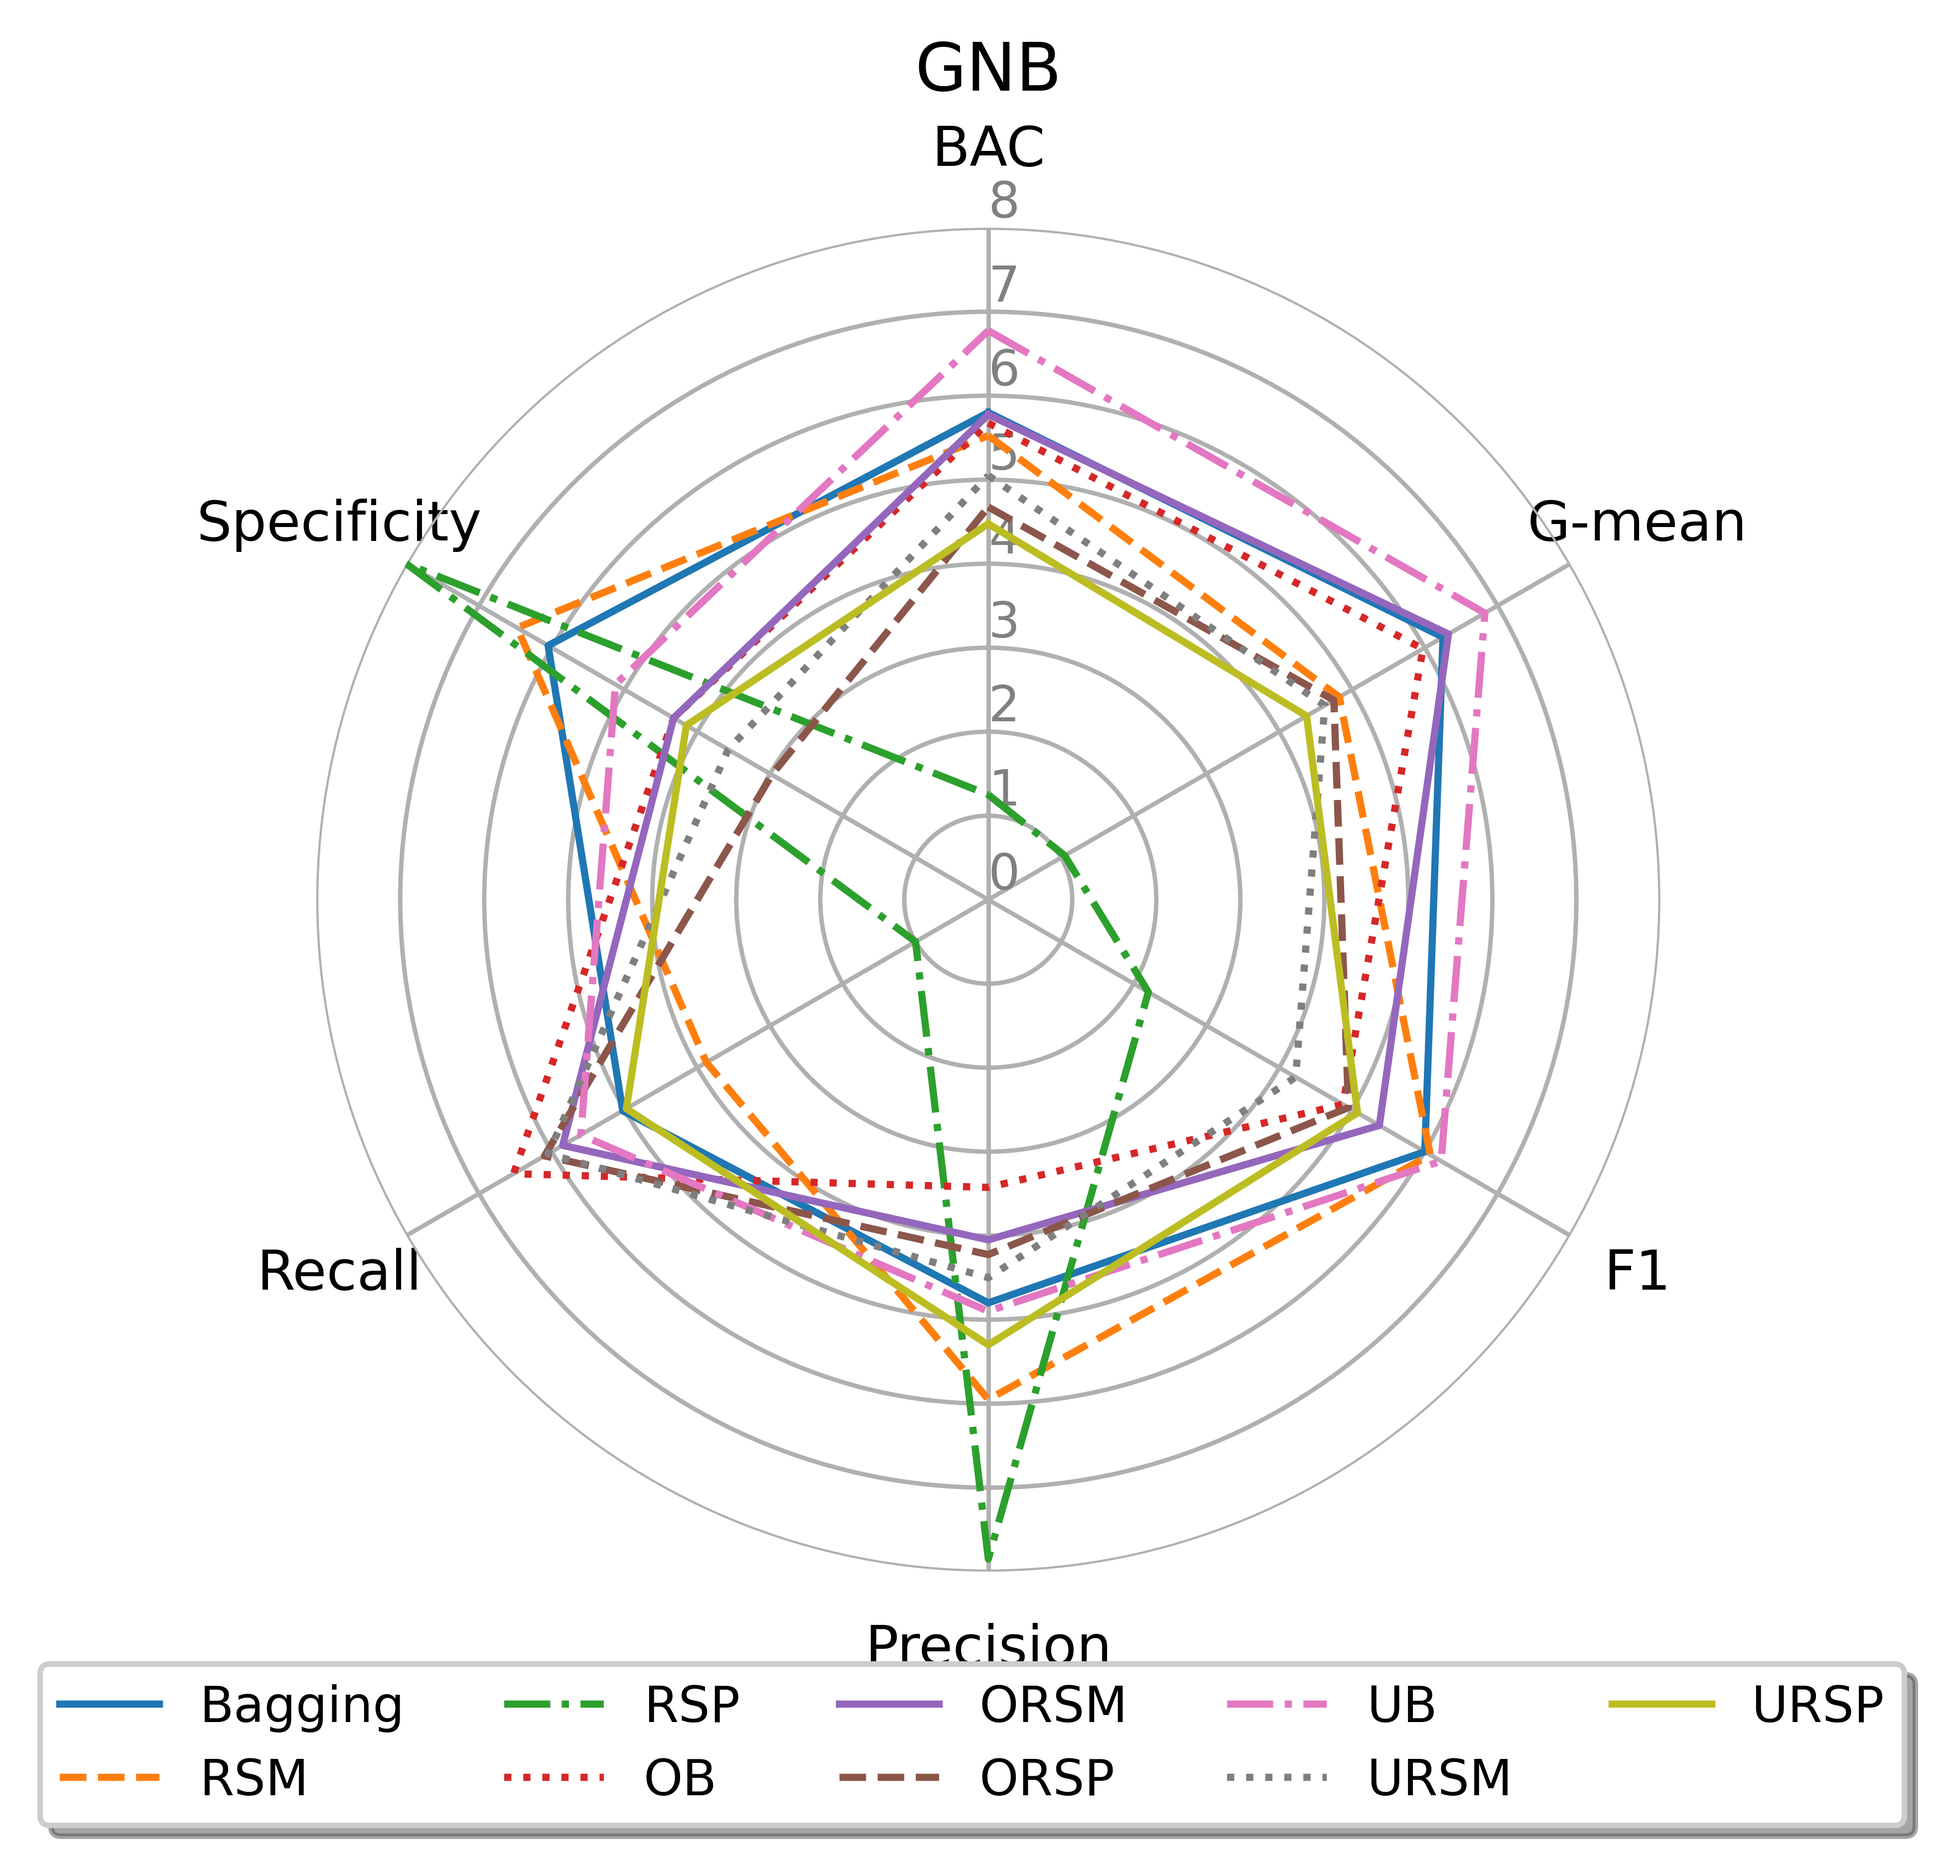
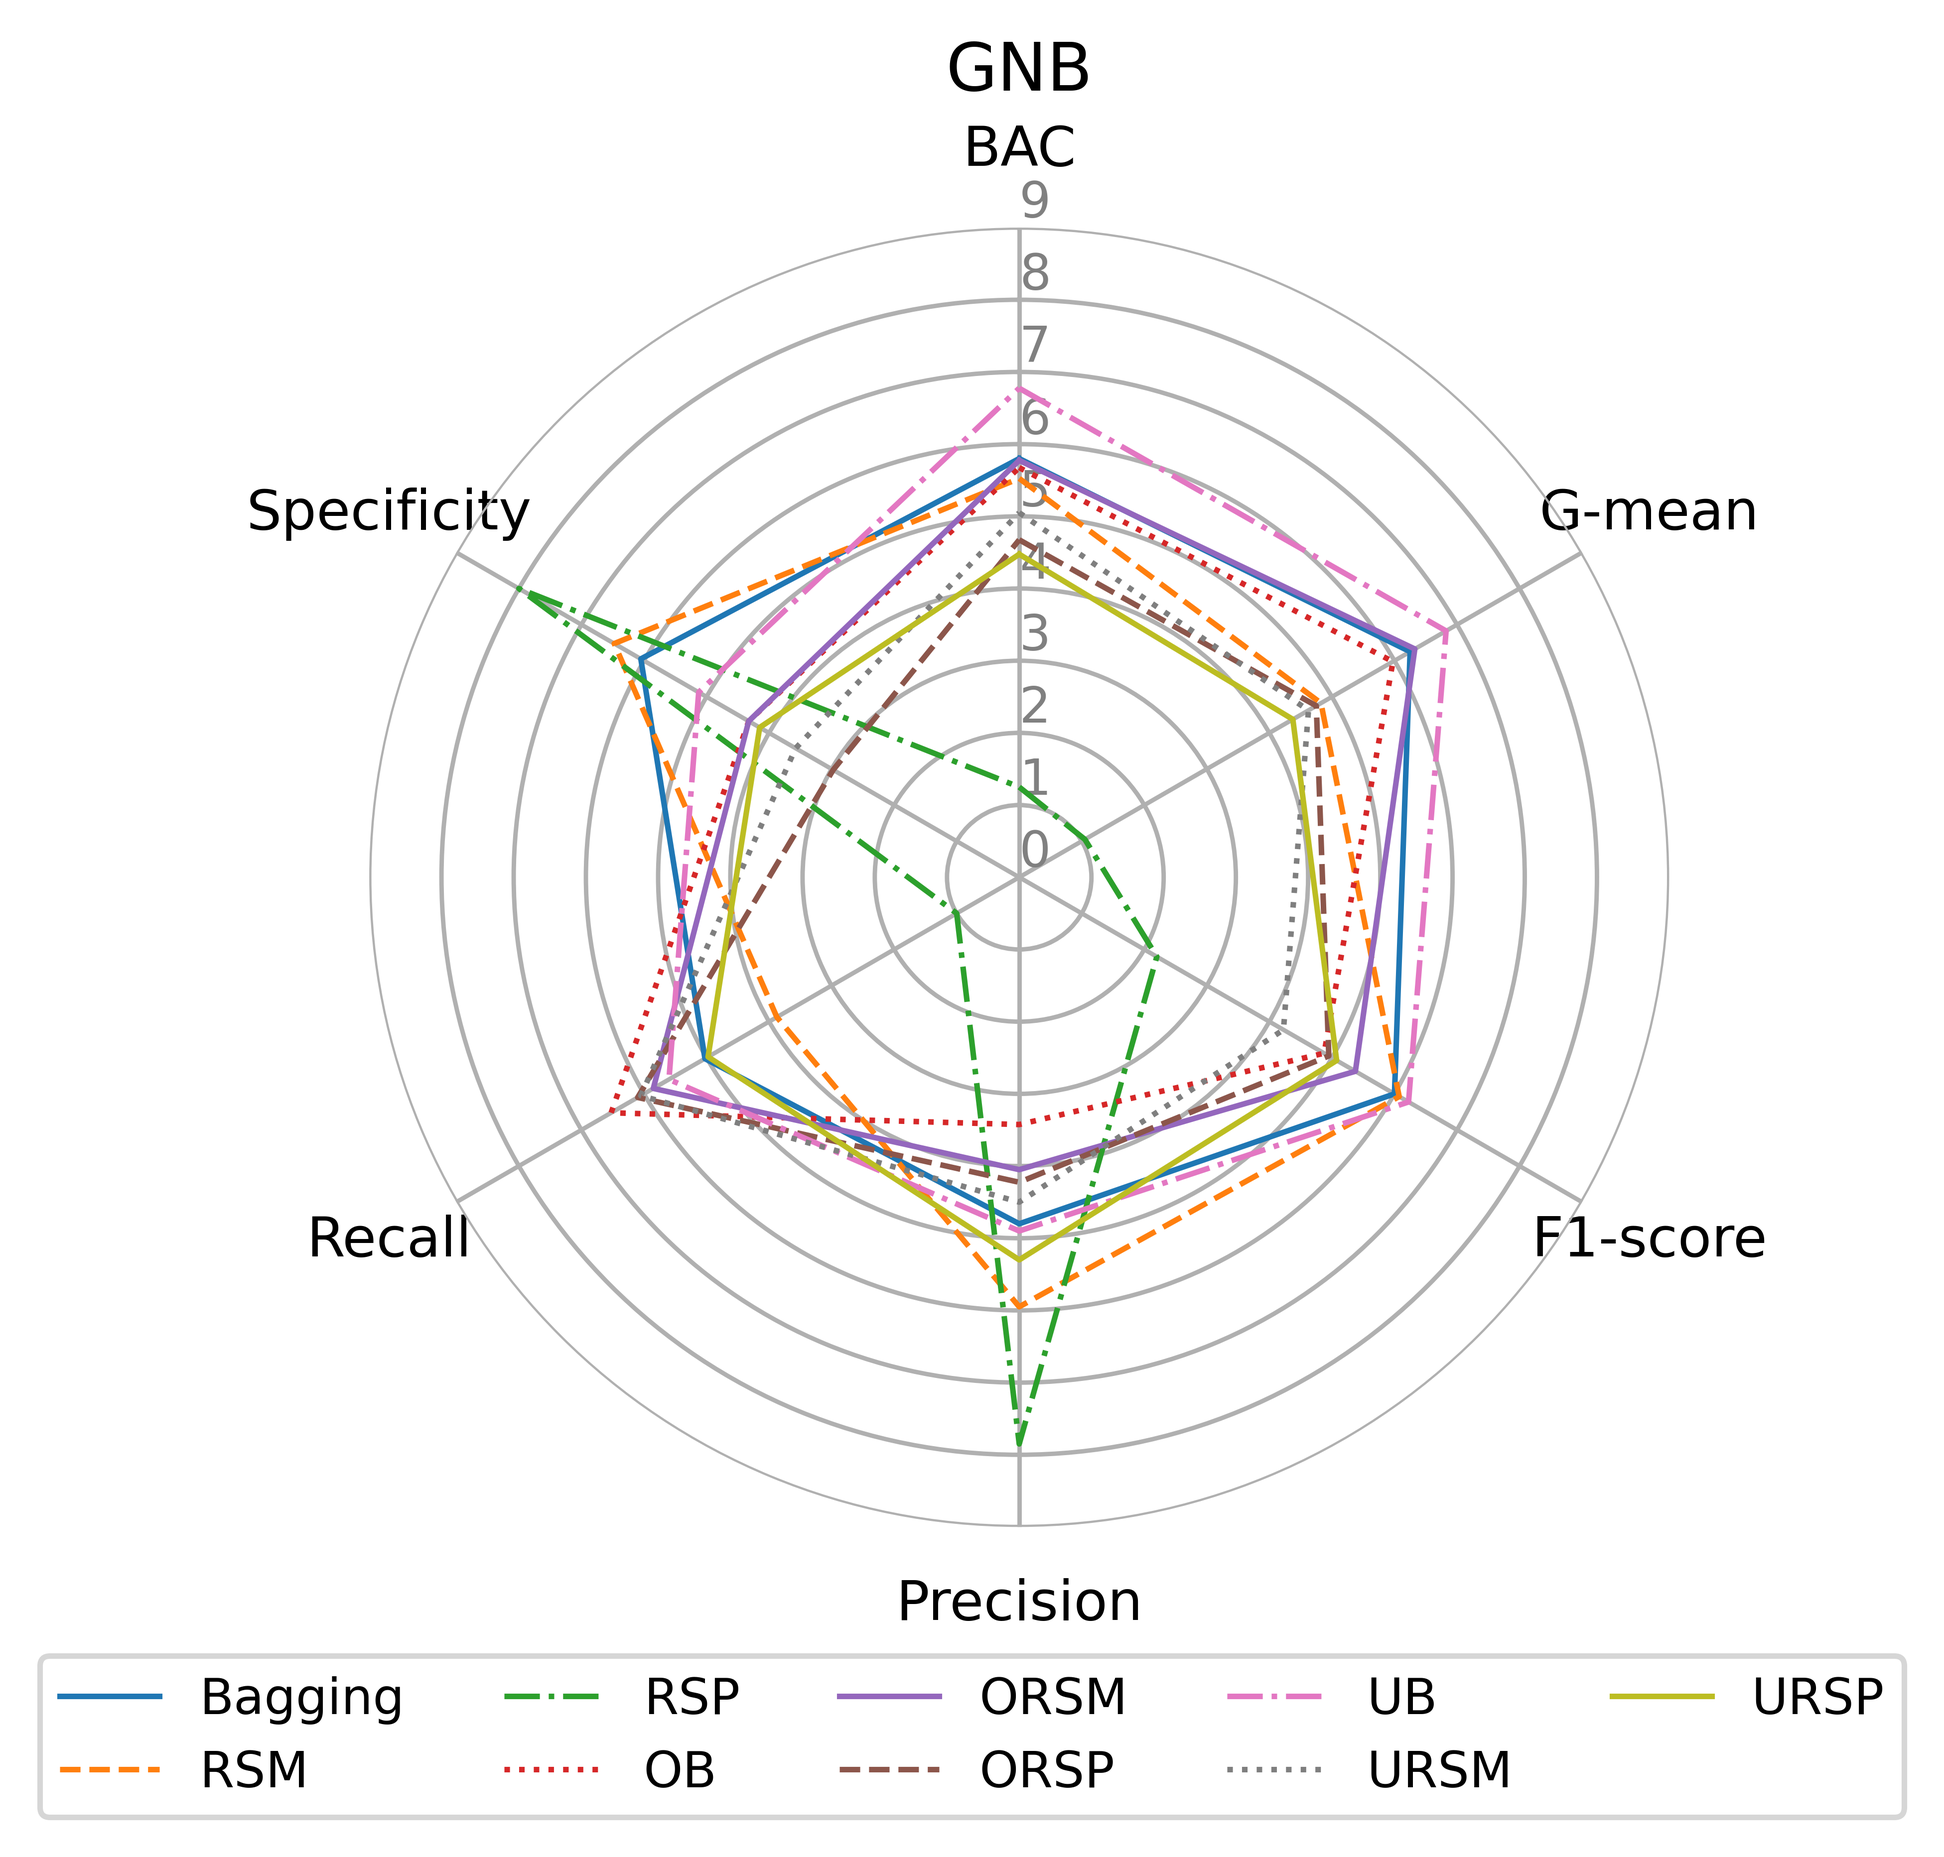
fix RSP

diff --git a/analysis/RadarGraph.py b/analysis/RadarGraph.py
@@ -1,12 +1,11 @@
-from cv2 import mean
 import matplotlib.pyplot as plt
 from math import pi
 import numpy as np
 
 clfs = ["Bagging", "RSM", "RSP", "OB", "ORSM", "ORSP", "UB", "URSM", "URSP"]
-metrics = ["BAC", "G-mean", "F1", "Precision", "Recall", "Specificity"]
+metrics = ["BAC", "G-mean", "F1-score", "Precision", "Recall", "Specificity"]
 
-ranks = np.load("../results/ENSEMBLES/Ranks_GNB.npy")
+ranks = np.load("../results/ENSEMBLES/Ranks_SVC.npy")
 mean_ranks = np.mean(ranks, axis=1)
 
 N = mean_ranks.shape[0]
@@ -19,24 +18,25 @@ ax.set_theta_direction(-1)
 ax.set_rlabel_position(0)
 ax.spines["polar"].set_visible(False)
 
-plt.xticks(angles[:-1], metrics) 
+plt.xticks(angles[:-1], metrics)
 plt.yticks([0, 1, 2, 3, 4, 5, 6, 7, 8, 9], ["0", "1", "2", "3", "4", "5", "6", "7", "8", "9"], color="grey", size=9)
-plt.ylim(0,8)
-plt.title("GNB")
+plt.ylim(0,9)
+plt.title("SVC", loc="center")
 
 # Line style
 ls = ["-", "--", "-.", ":", "-", "--", "-.", ":", "-", "--"]
+lw = [1, 1, 1, 1, 1, 1, 1, 1, 1, 1]
 
 for method_id, method in enumerate(clfs):
     values = mean_ranks[:, method_id].tolist()
     values += values[:1]
-    ax.plot(angles, values, linewidth=1.3, linestyle=ls[method_id], label=method)
+    ax.plot(angles, values, linewidth=lw[method_id], linestyle=ls[method_id], label=method)
 
 # Legend
-plt.legend(bbox_to_anchor=(1.2, -0.05), shadow=True, ncol=5, fontsize=9)
+plt.legend(bbox_to_anchor=(1.2, -0.08), ncol=5, fontsize=9)
 plt.tight_layout()
 
 # Save image
-plt.savefig("../images/GNBEnsmblesRadar", dpi=800, bbox_inches='tight')
+plt.savefig("../images/SVCEnsmblesRadar", dpi=800, bbox_inches='tight')
 
 

diff --git a/undersampling_test/RadarGraph.py b/undersampling_test/RadarGraph.py
@@ -3,9 +3,9 @@ from math import pi
 import numpy as np
 
 preprocs= ['RUS', 'CC', 'NM', 'OSS', 'CNN', 'MCC']
-metrics = ["BAC", "G-mean", "F1", "Precision", "Recall", "Specificity"]
+metrics = ["BAC", "G-mean", "F1-score", "Precision", "Recall", "Specificity"]
 
-ranks = np.load("../results/UNDERSAMPLING/CART_RanksUndersampling.npy")
+ranks = np.load("../results/UNDERSAMPLING/GNB_RanksUndersampling.npy")
 mean_ranks = np.mean(ranks, axis=1)
 N = len(preprocs)
 angles = [n / float(N) * 2 * pi for n in range(N)]
@@ -15,6 +15,7 @@ ax = plt.subplot(111, polar=True)
 ax.set_theta_offset(pi / 2)
 ax.set_theta_direction(-1)
 ax.set_rlabel_position(0)
+ax.spines["polar"].set_visible(False)
 
 plt.xticks(angles[:-1], metrics)
 plt.yticks([0,1, 2, 3, 4, 5, 6], ["0", "1", "2", "3", "4", "5", "6"], color="grey", size=7)
@@ -33,4 +34,4 @@ for method_id, method in enumerate(preprocs):
 plt.legend(bbox_to_anchor=(1.15, -0.06), ncol=8, fontsize=9)
 
 # Save image
-plt.savefig("../images/CART_UndersamplingRadar", dpi=600)
+plt.savefig("../images/GNB_UndersamplingRadar", dpi=600, bbox_inches='tight')

diff --git a/ensembles/RandomSamplePartition.py b/ensembles/RandomSamplePartition.py
@@ -9,7 +9,7 @@ from scipy.stats import mode
 
 class RandomSamplePartition(BaseEnsemble, ClassifierMixin):
 
-    def __init__(self, base_estimator=LinearSVC(), n_estimators=10, n_subspace_choose=1, n_subspace_features=2, hard_voting=True, random_state=None):
+    def __init__(self, base_estimator=LinearSVC(), n_estimators=10, n_subspace_choose=1, n_subspace_features=5, hard_voting=True, random_state=None):
         self.base_estimator = base_estimator
         self.n_estimators = n_estimators
         self.n_subspace_features = n_subspace_features
